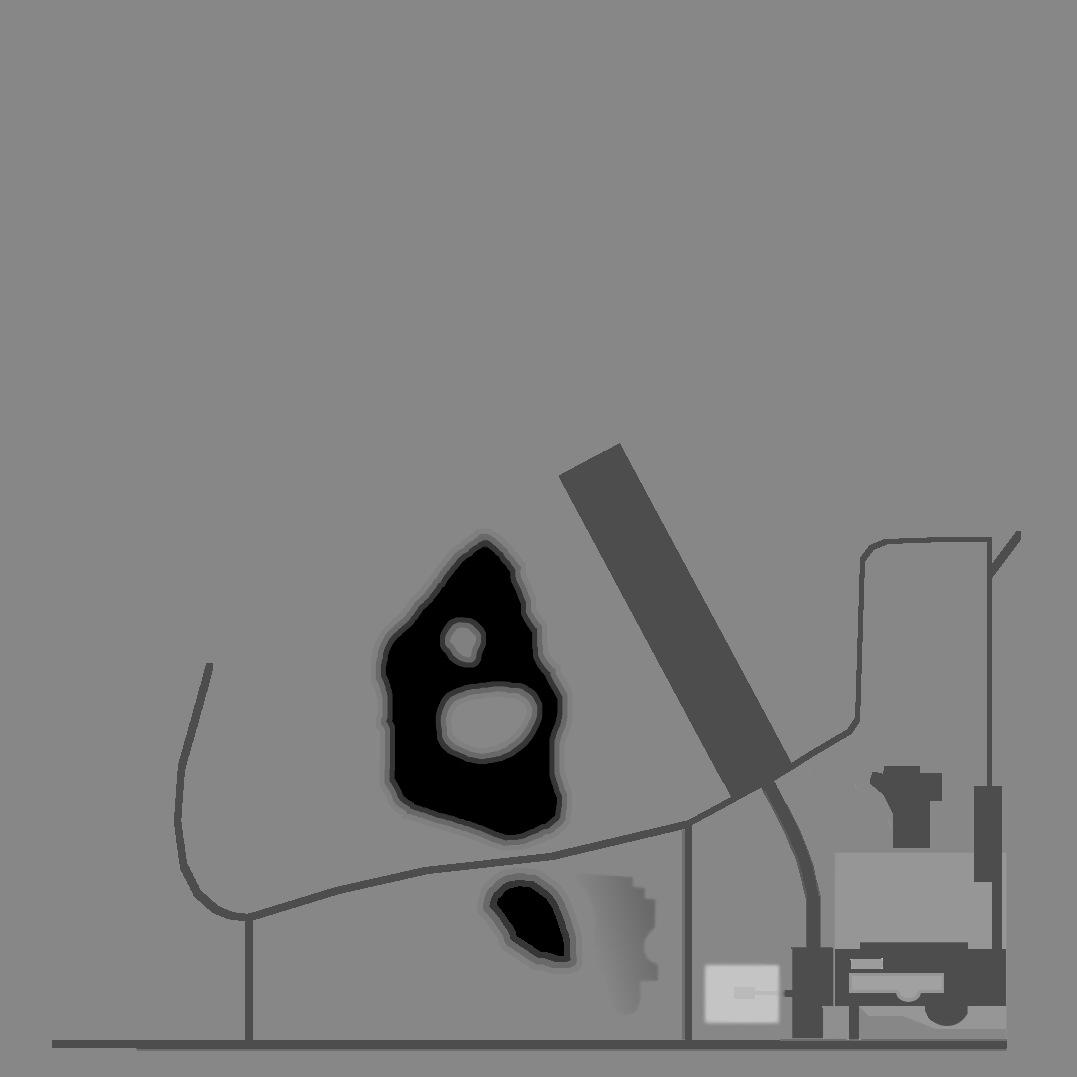
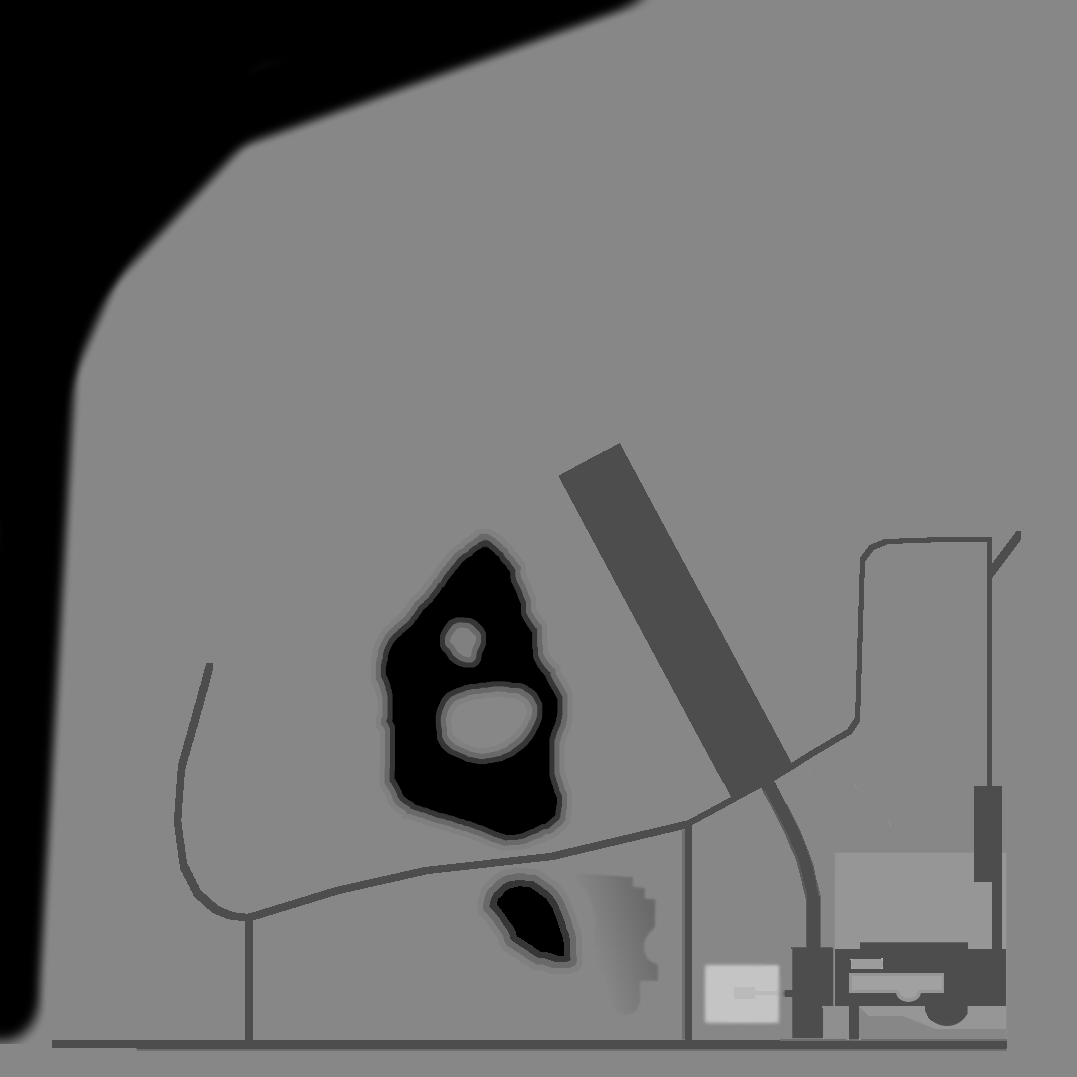
Добавлено: залив

Changed region(s): [[0.0, 0.0, 0.6128, 0.9805], [0.7967, 0.7047, 0.8886, 0.7967]]

diff --git a/src/RealisticWater.cpp b/src/RealisticWater.cpp
@@ -25,8 +25,8 @@
 #include "RealisticWater.h"
 #include <iostream>
 
-RealisticWaterSceneNode::RealisticWaterSceneNode(scene::ISceneManager* sceneManager, f32 width, f32 height, 
-												 const irr::core::stringc& resourcePath, core::dimension2du renderTargetSize,
+RealisticWaterSceneNode::RealisticWaterSceneNode(scene::ISceneManager* sceneManager, f32 width, f32 height,
+                                                 core::dimension2du renderTargetSize,
 												 scene::ISceneNode* parent, s32 id):
     scene::ISceneNode(parent, sceneManager, id),
     _camera(NULL),
@@ -57,14 +57,13 @@ RealisticWaterSceneNode::RealisticWaterSceneNode(scene::ISceneManager* sceneMana
 
 	if (_videoDriver->getDriverType() == video::EDT_DIRECT3D9)
 	{
-		waterPixelShader = resourcePath + "/shaders/Water_ps.hlsl";
-		waterVertexShader = resourcePath + "/shaders/Water_vs.hlsl";
+        waterPixelShader = "../../shaders/Water_ps.hlsl";
+        waterVertexShader = "../../shaders/Water_vs.hlsl";
 	}
 	else if (_videoDriver->getDriverType() == video::EDT_OPENGL)
 	{
-        waterPixelShader = resourcePath + "/shaders/Water_ps.glsl";
-		waterVertexShader = resourcePath + "/shaders/Water_vs.glsl";
-        std::cout << "----------" << waterPixelShader.c_str() << std::flush << std::endl;
+        waterPixelShader = "../../shaders/Water_ps.glsl";
+        waterVertexShader = "../../shaders/Water_vs.glsl";
 	}
 
 	_shaderMaterial = GPUProgrammingServices->addHighLevelShaderMaterialFromFiles(
@@ -74,7 +73,7 @@ RealisticWaterSceneNode::RealisticWaterSceneNode(scene::ISceneManager* sceneMana
 
 	_waterSceneNode->setMaterialType((video::E_MATERIAL_TYPE)_shaderMaterial);
 
-    irr::video::ITexture* bumpTexture = _videoDriver->getTexture(resourcePath + "/media/waterbump.png");
+    irr::video::ITexture* bumpTexture = _videoDriver->getTexture("../../media/waterbump.png");
     _waterSceneNode->setMaterialTexture(0, bumpTexture);
 
 	_refractionMap = _videoDriver->addRenderTargetTexture(renderTargetSize);

diff --git a/src/gamepark.cpp b/src/gamepark.cpp
@@ -82,11 +82,29 @@ void GamePark::initPlayer()
     smgr()->setActiveCamera(m_player->camera());
 
     m_player->setPosition(9160,535*2,58440);
+    m_player->setPosition(59160,1035*2,58440); // берег у реки
+    m_player->setPosition(59160,1035*2,20440); // берег у залива
+}
+
+int GamePark::initWater()
+{
+    // создаение залива
+    const f32 width = 37120.0f;
+    const f32 height = 75120.0f;
+    RealisticWaterSceneNode* water = new RealisticWaterSceneNode(smgr(), width, height);
+    smgr()->getRootSceneNode()->addChild(water);
+    water->setPosition(core::vector3df(52160,35*2,34840));
+    water->setWaterColor(video::SColorf(0,0.5,0.5));
+    water->setWaveHeight(0.3f);
+    water->setWindForce(10.0f);
+
+    return 0;
 }
 
 int GamePark::initWorld()
 {
     initTerrain();
+    initWater();
     initSkybox();
     initLight();
     return 0;
@@ -141,22 +159,6 @@ int GamePark::initTerrain()
     //video::S3DVertex2TCoords* data = (video::S3DVertex2TCoords*)buffer->getVertexBuffer().getData();
     // Работайте с данными или получите IndexBuffer с аналогичным вызовом.
     buffer->drop(); // При завершении снова сбрасываем буфер
-
-
-    const f32 width = 15120.0f;
-    const f32 height = 15120.0f;
-    std::string resourcePath;
-    #ifdef __APPLE__
-        NSString* path = [[NSBundle mainBundle]resourcePath];
-        resourcePath = [path cStringUsingEncoding:NSASCIIStringEncoding];
-    #endif
-
-    RealisticWaterSceneNode* water = new RealisticWaterSceneNode(smgr(), width, height, "/home/user/qtprojects/gamepark");
-    smgr()->getRootSceneNode()->addChild(water);
-    water->setPosition(core::vector3df(9160,535*2,58440));
-    water->setWaterColor(video::SColorf(0,0.3,0));
-
-
 
     return 0;
 }

diff --git a/src/RealisticWater.h b/src/RealisticWater.h
@@ -31,8 +31,7 @@ using namespace irr;
 class RealisticWaterSceneNode: public scene::ISceneNode, video::IShaderConstantSetCallBack
 {
 public:
-	RealisticWaterSceneNode(scene::ISceneManager* sceneManager, f32 width, f32 height,
-							const irr::core::stringc& resourcePath = irr::core::stringc(),
+    RealisticWaterSceneNode(scene::ISceneManager* sceneManager, f32 width, f32 height,
 							core::dimension2du renderTargetSize=core::dimension2du(512,512),scene::ISceneNode* parent = NULL, s32 id = -1);
 	virtual ~RealisticWaterSceneNode();
 

diff --git a/src/gamepark.h b/src/gamepark.h
@@ -102,6 +102,7 @@ private:
     int initDriver();
     void initEnvironment();
     void initPlayer();
+    int initWater();
     int initWorld();
     int initTerrain();
     int initSkybox();
